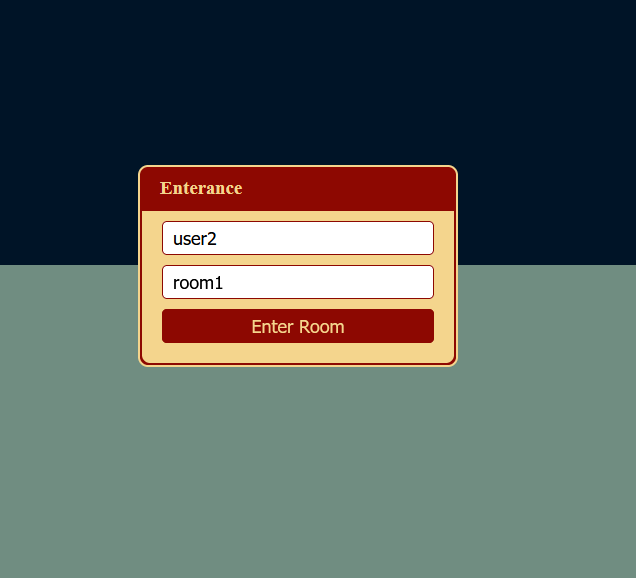
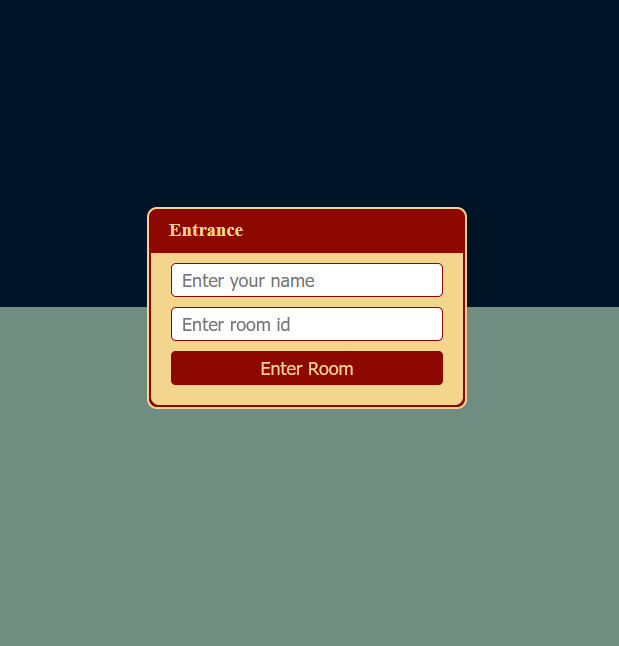
upd(front): screeshot

Changed region(s): [[0.0, 0.2803, 1.0, 0.654]]

diff --git a/client-ts/src/components/Entrance.tsx b/client-ts/src/components/Entrance.tsx
@@ -15,7 +15,7 @@ const Entrance = ({username, setUsername, room, setRoom, joinRoom }: EntranceObj
   return (
     <div className="layout">
         <div className="enterance">
-        <div className="enterance__header"> <h3>Enterance</h3></div>
+        <div className="enterance__header"> <h3>Entrance</h3></div>
         <div className="enterance__body">
         <input type="text" placeholder='Enter your name' onChange={(e)=>setUsername(e.target.value)} value={username} />
         <input type="text" placeholder='Enter room id' onChange={(e)=>setRoom(e.target.value)} value={room}/>
